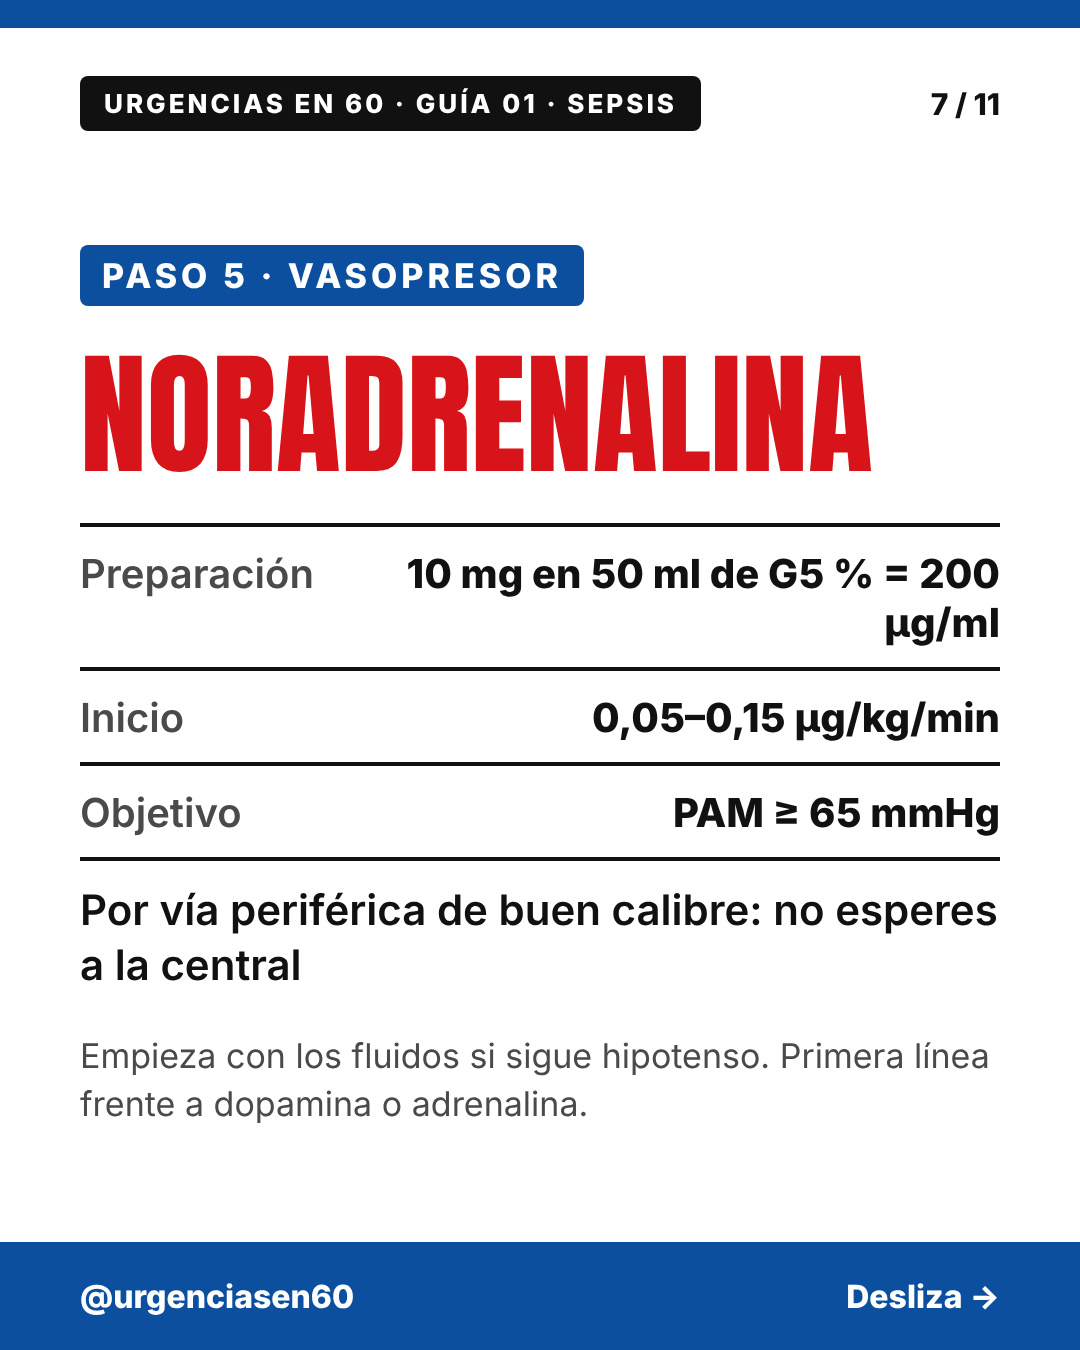
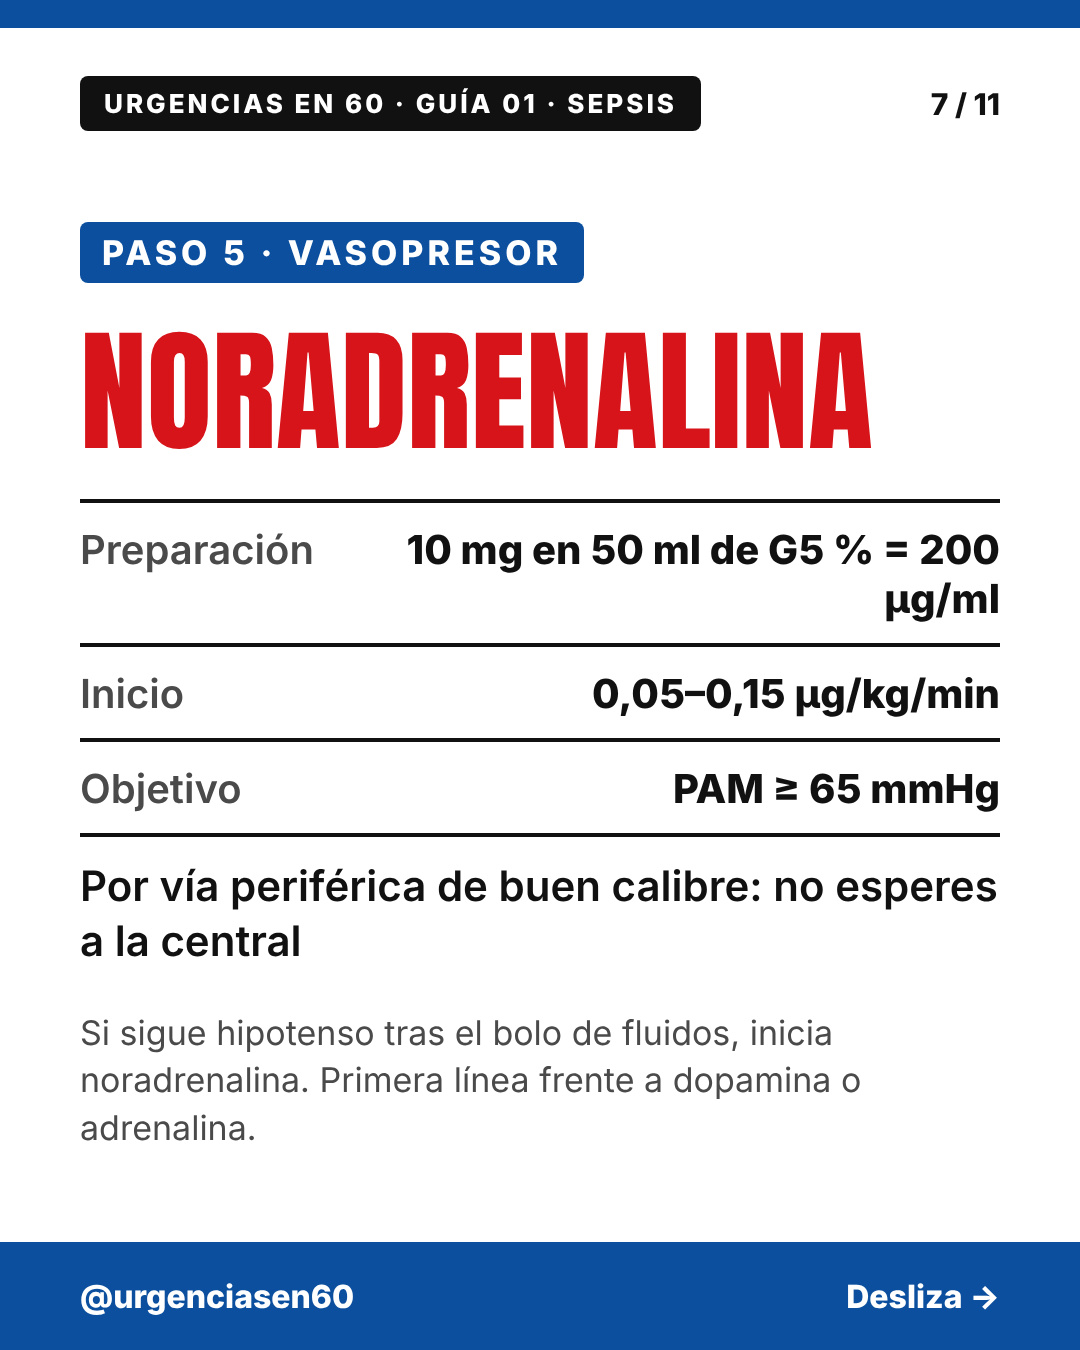
Guía 01 sepsis: corregir redacción de lactato y vasopresor (diapos 7 y 8)
Claude-Session: https://claude.ai/code/session_019S5PG21v48Hcih5GSnysD5

Changed region(s): [[0.0611, 0.1556, 0.9472, 0.84]]

diff --git a/tools/guia_sepsis_2026.py b/tools/guia_sepsis_2026.py
@@ -12,8 +12,8 @@ page(3,N,T,tag("LAS ESCALAS, EN 10 SEGUNDOS")+big("QSOFA Y SIRS",150)+rows(row("
 page(4,N,T,tag("PASO 2 · TIEMPO CERO")+big("LACTATO Y CULTIVOS",112)+rows(line("Lactato en el triaje; si es ≥ 2 mmol/L, no alta",True),line("Repite el lactato: la tendencia importa"),line("Hemocultivos antes del antibiótico, sin retrasarlo"))+note("Ningún biomarcador aislado confirma ni descarta una sepsis."),**KW),
 page(5,N,T,tag("PASO 3 · ANTIBIÓTICO",R)+big("EN 1 HORA",200,R,True)+rows(row("Shock o sepsis probable","≤ 1 h"),row("Sepsis posible, sin shock","≤ 3 h"),row("Sin foco","Ceftriaxona"),row("Shock séptico","Meropenem + vancomicina ± amikacina"))+note("Con foco conocido, la pauta del foco. Ajusta a la guía antimicrobiana de tu hospital."),**KW),
 page(6,N,T,tag("PASO 4 · FLUIDOS")+big("30 ML/KG",220,R,True)+'<div style="font-size:46px;font-weight:800;line-height:1.2">De cristaloide en las 3 primeras horas si hay hipoperfusión o shock</div>'+rows(row("Tipo","Balanceado (Ringer lactato) antes que salino 0,9 %"),row("Después","Reevalúa: medidas dinámicas, relleno capilar, ecografía"))+note("Es un mínimo orientativo. Los almidones no se usan."),**KW),
-page(7,N,T,tag("PASO 5 · VASOPRESOR")+big("NORADRENALINA",134,R,True)+rows(row("Preparación","10 mg en 50 ml de G5 % = 200 µg/ml"),row("Inicio","0,05–0,15 µg/kg/min"),row("Objetivo","PAM ≥ 65 mmHg"),line("Por vía periférica de buen calibre: no esperes a la central"))+note("Empieza con los fluidos si sigue hipotenso. Primera línea frente a dopamina o adrenalina."),**KW),
-page(8,N,T,tag("SI PERSISTE")+big("SHOCK REFRACTARIO",120)+rows(row("Corticoide","Hidrocortisona 50 mg/6 h IV"),row("Noradrenalina al alza","Avisa a UCI"),line("No esperes a normalizar el lactato para seguir con fluidos",True))+note("El resto del soporte (vasopresina, adrenalina) es de UCI: avísala pronto."),**KW),
+page(7,N,T,tag("PASO 5 · VASOPRESOR")+big("NORADRENALINA",134,R,True)+rows(row("Preparación","10 mg en 50 ml de G5 % = 200 µg/ml"),row("Inicio","0,05–0,15 µg/kg/min"),row("Objetivo","PAM ≥ 65 mmHg"),line("Por vía periférica de buen calibre: no esperes a la central"))+note("Si sigue hipotenso tras el bolo de fluidos, inicia noradrenalina. Primera línea frente a dopamina o adrenalina."),**KW),
+page(8,N,T,tag("SI PERSISTE")+big("SHOCK REFRACTARIO",120)+rows(row("Corticoide","Hidrocortisona 50 mg/6 h IV"),row("Noradrenalina al alza","Avisa a UCI"),line("No sigas con fluidos solo para normalizar el lactato",True))+note("El resto del soporte (vasopresina, adrenalina) es de UCI: avísala pronto."),**KW),
 page(9,N,T,tag("NO LO OLVIDES")+big("CONTROLA EL FOCO",128)+rows(line("En las primeras 6 horas desde la evaluación en Urgencias",True),line("Absceso, perforación, colangitis, pielonefritis obstructiva, partes blandas necrotizantes, empiema, artritis séptica, dispositivo infectado"))+note("El antibiótico sin control del foco no resuelve la sepsis."),**KW),
 page(10,N,T,tag("EVITA",R)+big("CINCO ERRORES",150)+rows(line("Cribar solo con qSOFA"),line("Esperar a la vía central para la noradrenalina"),line("Salino 0,9 % a chorro si hay balanceado"),line("Retrasar el antibiótico por esperar cultivos"),line("Dar el alta con lactato ≥ 2 mmol/L"))+note("Derivados de las recomendaciones; no son frases literales del documento."),**KW),
 page(11,N,T,ficha_body("SEPSIS 2026","Adulto",[("CÓDIGO","Infección + qSOFA ≥ 2, SIRS ≥ 2 o NEWS-2 ≥ 5. qSOFA 1 + lactato ≥ 2"),("TRIAJE","Lactato (≥ 2: no alta) y hemocultivos antes del antibiótico"),("ANTIBIÓTICO","≤ 1 h (shock o probable); ≤ 3 h (posible). Sin foco: ceftriaxona. Shock: meropenem + vancomicina ± amikacina",True),("FLUIDOS","Balanceado ≥ 30 ml/kg en 3 h si hipoperfusión. Reevaluar"),("NORADREN.","10 mg/50 ml G5 %. 0,05–0,15 µg/kg/min, periférica. PAM ≥ 65"),("SI PERSISTE","Hidrocortisona 50 mg/6 h IV. Avisa a UCI",True),("FOCO","Control en ≤ 6 h")],"Julián-Jiménez A, et al. GT-LATINFURG. Emergencias 2026;38:27-63; Prescott HC, et al. Surviving Sepsis Campaign 2026 (dosis y fluidos); guía antimicrobiana HU Puerta del Mar",size=124,fs=28),ficha="01",fam="GUÍA",**KW),
